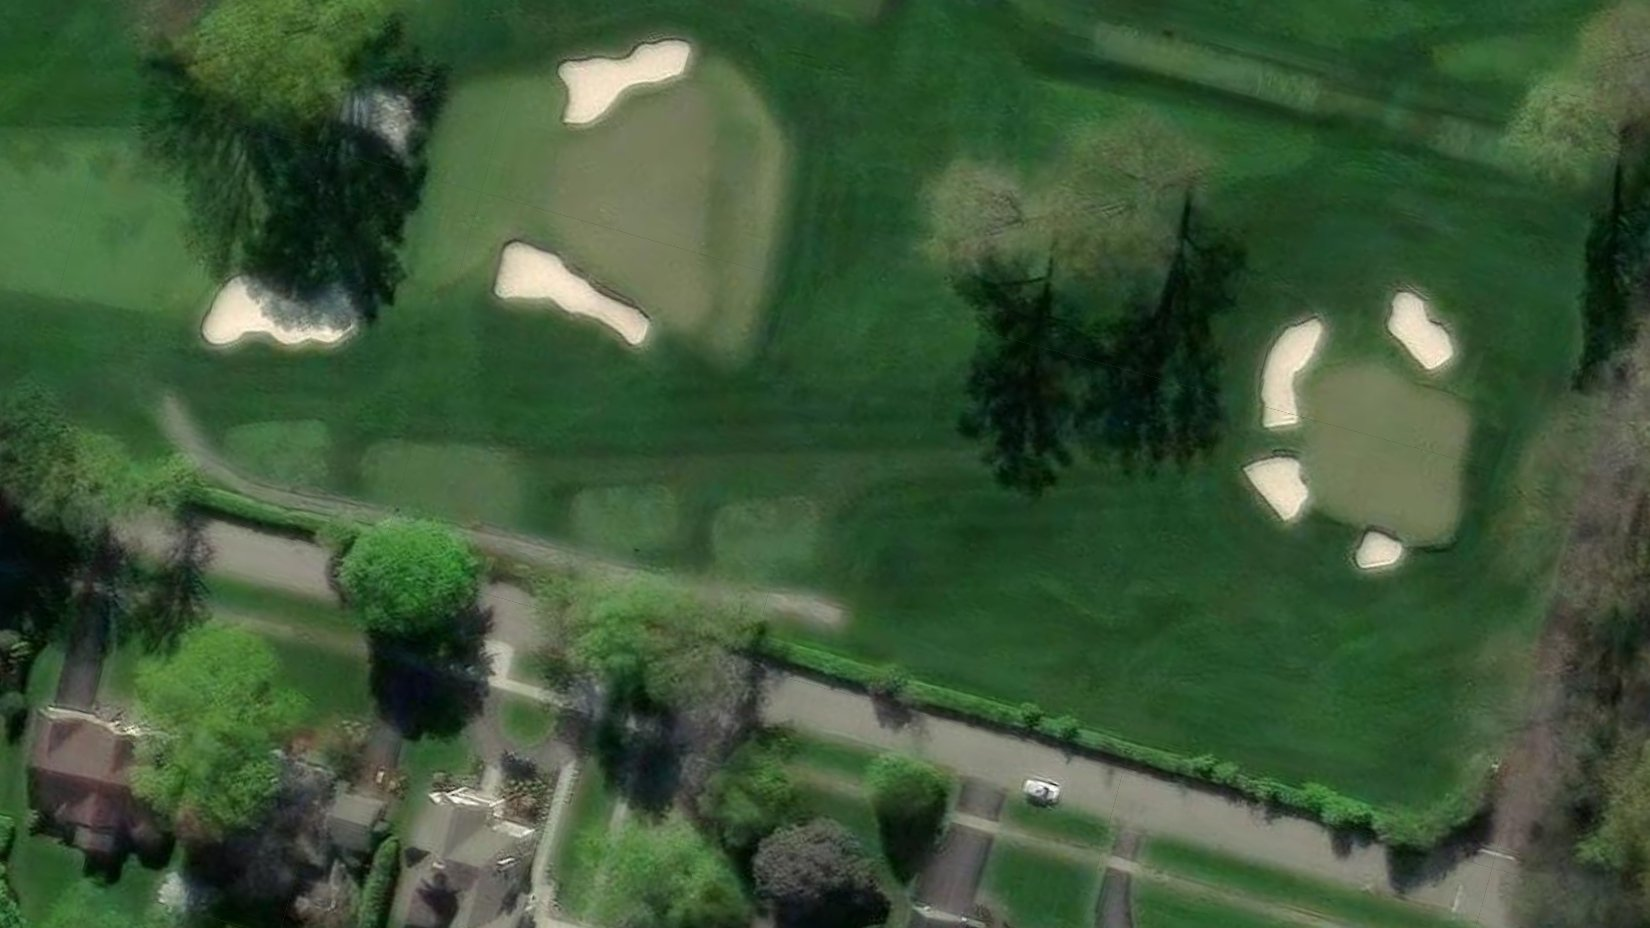
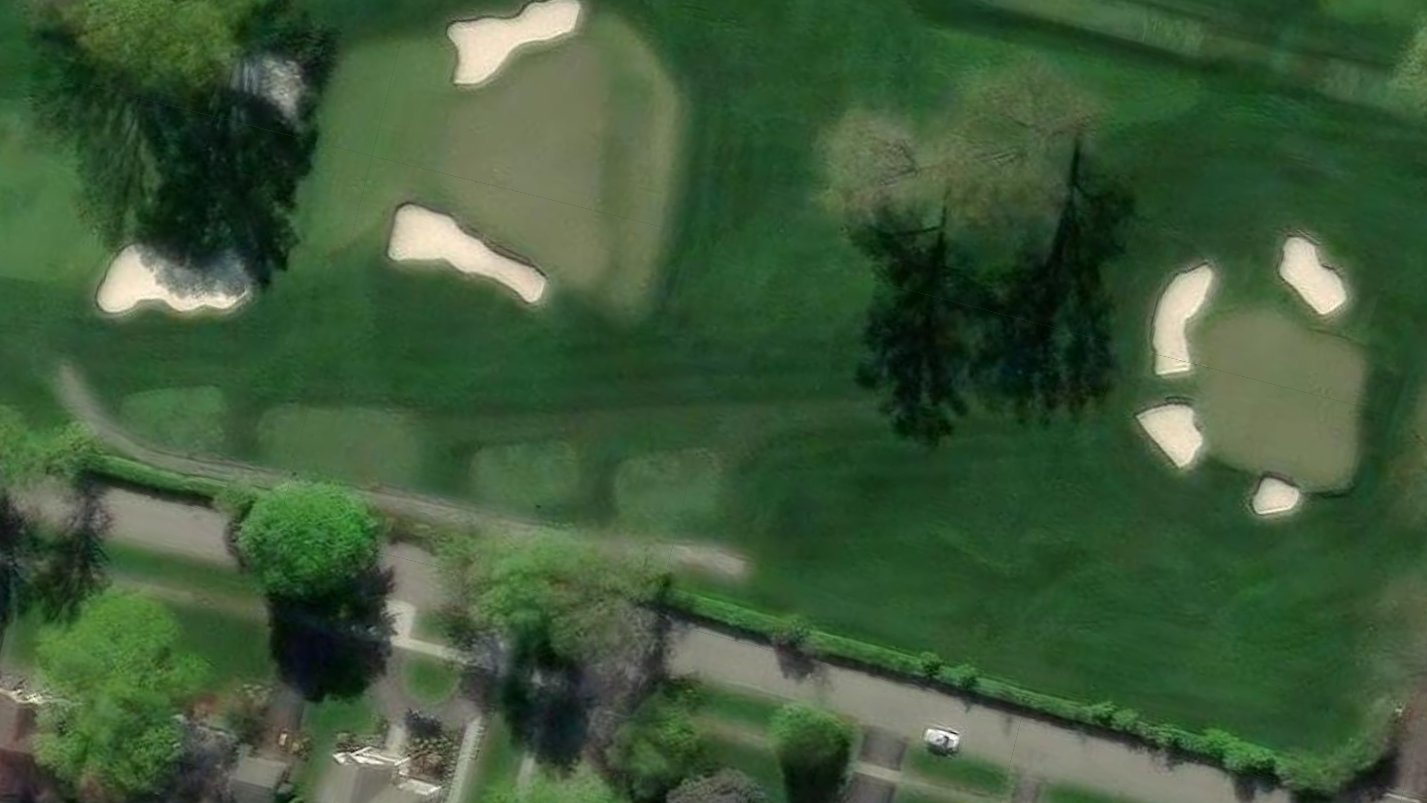
Marshal guide: 18 hole images, 32 stations (+1 image file)

diff --git a/js/holes-data.js b/js/holes-data.js
@@ -1,5 +1,5 @@
 // Hole images and marshal stations.
-// Saved from admin.html on 2026-08-25T18:47:27.684Z
+// Saved from admin.html on 2026-08-25T18:48:29.371Z
 //
 // savedAt is read back by the admin so it can tell whether this file or
 // a browser draft is the newer one, rather than making you guess.
@@ -285,8 +285,8 @@ const HOLES_DATA = {
         "zoom": 18,
         "marshals": [
           {
-            "t": -0.014068976509228143,
-            "offsetYards": -9.54331098729083,
+            "t": -0.049837940365375276,
+            "offsetYards": -15.818737081891422,
             "radiusYards": 13,
             "label": "Marshal spot 1"
           },
@@ -312,8 +312,8 @@ const HOLES_DATA = {
         "source": {
           "kind": "satellite",
           "tee": {
-            "lat": 43.11781962515768,
-            "lng": -77.525140337381
+            "lat": 43.11776984282523,
+            "lng": -77.52516543662954
           },
           "green": {
             "lat": 43.1192873102927,
@@ -321,27 +321,27 @@ const HOLES_DATA = {
           },
           "shots": [],
           "bearingNudge": 0,
-          "zoomNudge": -0.25,
+          "zoomNudge": 0,
           "imagery": "esri",
           "capturedZoom": 19
         },
         "image": {
           "src": "images/holes/east-05.jpg",
-          "width": 1650,
-          "height": 928,
+          "width": 1427,
+          "height": 803,
           "tee": {
-            "x": 0.14682350559433266,
-            "y": 0.49999999999419276
+            "x": 0.07999999999999997,
+            "y": 0.5
           },
           "green": {
-            "x": 0.8531764944074527,
-            "y": 0.49999999999419265
+            "x": 0.9200000000000002,
+            "y": 0.5
           },
           "shots": []
         },
         "imageReady": true,
         "spotsDone": true,
-        "lengthYards": 185.02300617994064
+        "lengthYards": 190.31198421235015
       },
       {
         "number": 6,
@@ -1541,5 +1541,5 @@ const HOLES_DATA = {
       }
     ]
   },
-  "savedAt": "2026-08-25T18:47:27.684Z"
+  "savedAt": "2026-08-25T18:48:29.371Z"
 };
